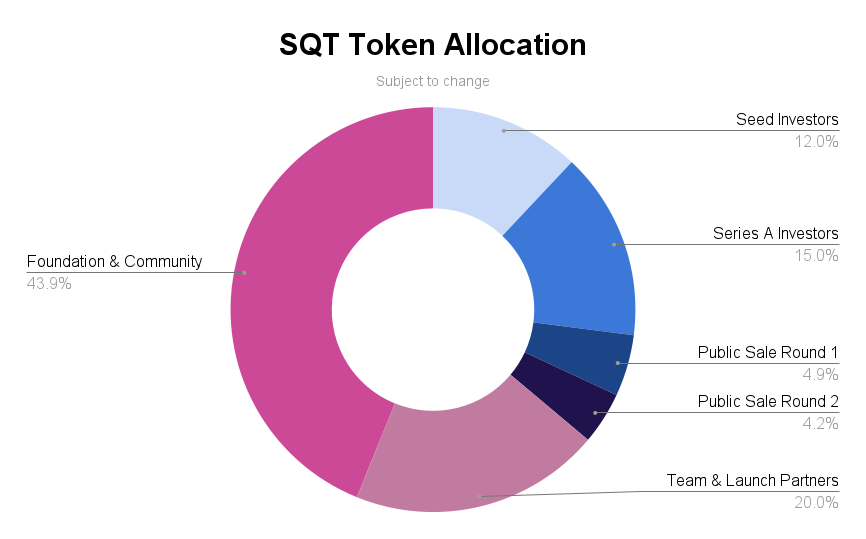
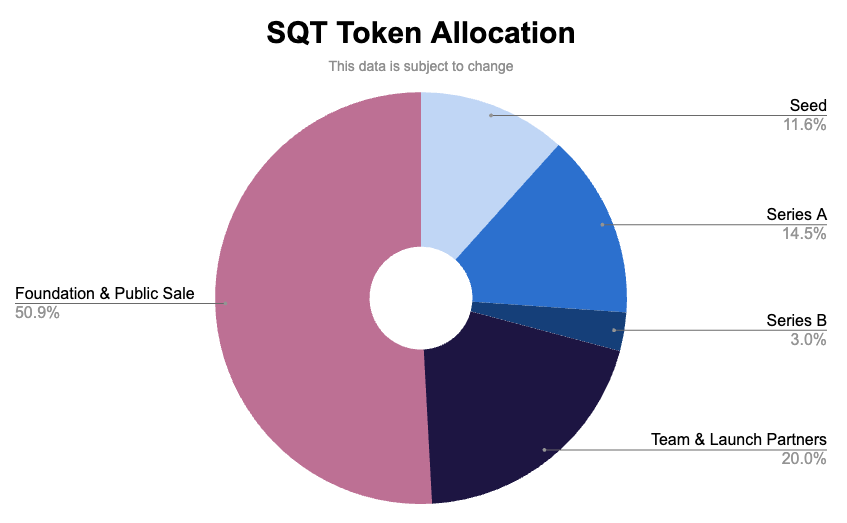
Update tokenomics

Changed region(s): [[0.0, 0.0306, 0.9823, 0.979], [0.7981, 0.7342, 0.9823, 0.7954]]

diff --git a/docs/subquery_network/token.md b/docs/subquery_network/token.md
@@ -14,35 +14,27 @@ There is no intention for SQT to be used as a medium of exchange for goods or se
 
 ## Tokenomics
 
-**Please note that the following SQT Token Allocation Plan and Token Vesting Schedule are still subject to change.**
+:::warning
+Please note that everything below is still subject to change.
+:::
 
-### Supply
+Total Supply: The total supply will be 10 Billion SQT tokens.
 
-The initial supply will be 10 Billion tokens.
-
-### Inflation
-
-The inflation will be ~2% per annum. This will be used to help the SubQuery Foundation bootstrap the network by supporting Indexers during the early launch phase where Consumers numbers will still be growing.
-
-### Allocation
-
-Token allocation is as follows:
+Inflation: The inflation is expected to be ~2% per annum. This will be used to help the SubQuery Foundation bootstrap the network by supporting Indexers during the early launch phase where Consumers numbers will still be growing.
 
 ![token allocation](/assets/img/token_allocation.png)
 
-From the start, SubQuery has been focused on building value within the community and this aim continues with the largest allocation of tokens (44%) being apportioned to the Community and SubQuery Foundation.
+From the start, SubQuery has been focused on building value within the community and this aim continues with the largest allocation of tokens (~51%) being apportioned to the Community, SubQuery Foundation, and for the public sale.
 
-The Foundation, which is expected to be established in early 2022, will administer the future governance and growth of the ecosystem and the ownership of the SubQuery Network will come under the SubQuery Foundation initially. This large allocation also includes consideration for future investment into the development and operations of the Network, and key ecosystem growth drivers. This will include tools such as grants and ecosystem incentives/events as well as other marketing activities including bug bounties and mainnet incentives.
+The Foundation, which is expected to be established in late 2023, will administer the future governance and growth of the ecosystem and the ownership of the SubQuery Network will come under the SubQuery Foundation initially. This large allocation also includes consideration for future investment into the development and operations of the Network, and key ecosystem growth drivers. This will include tools such as grants and ecosystem incentives/events as well as other marketing activities including bug bounties and mainnet incentives.
 
-Early investors in both the Seed and Series A rounds have a combined allocation of 27%. In the case of our Seed investors, SubQuery is grateful for their early vision and commitment to build the initial phase of SubQuery. Following on from this, growth was accelerated with the support of Series A investors who allowed the project to accelerate to the next level.
+Early investors in both the Seed, Series A, and Series B rounds have a combined allocation of ~29%. In the case of our seed investors, SubQuery is grateful for their early vision and commitment to build the initial phase of SubQuery. Following on from this, growth was accelerated with the support of Series A and B investors who allowed the project to accelerate to the next level.cce
 
-For the Public Sale, 9% of token supply has been allocated across at least two sequential rounds. The exact structure and timing of these rounds can be found [here](https://subquery.medium.com/subquery-publishes-the-sqt-public-sale-date-and-sale-guide-64b8aff10882).
-
-Finally, the SubQuery Team and Launch Partners have been allocated 20% of the token supply in return for their tireless dedication and contribution in building and promoting the project from the outset.
+Finally, the SubQuery Team and Launch Partners have been allocated 20% of the token supply in return for their tireless dedication and contribution in building and promoting the project over multiple years of hard work.
 
 ### Vesting schedule
 
-We have designed our vesting schedule to demonstrate the commitment of various stakeholders. The graphic below illustrates the release of the SQT tokens to each participant over time culminating in the full circulation of tokens occurring 5 years (60 months) after launch.
+We have designed our vesting schedule to demonstrate the commitment of various stakeholders. The graphic below illustrates the planned release of the SQT tokens to each participant over time culminating in the full circulation of tokens occurring 5 years (60 months) after launch.
 
 ![vesting schedule](/assets/img/vesting_schedule.png)
 
